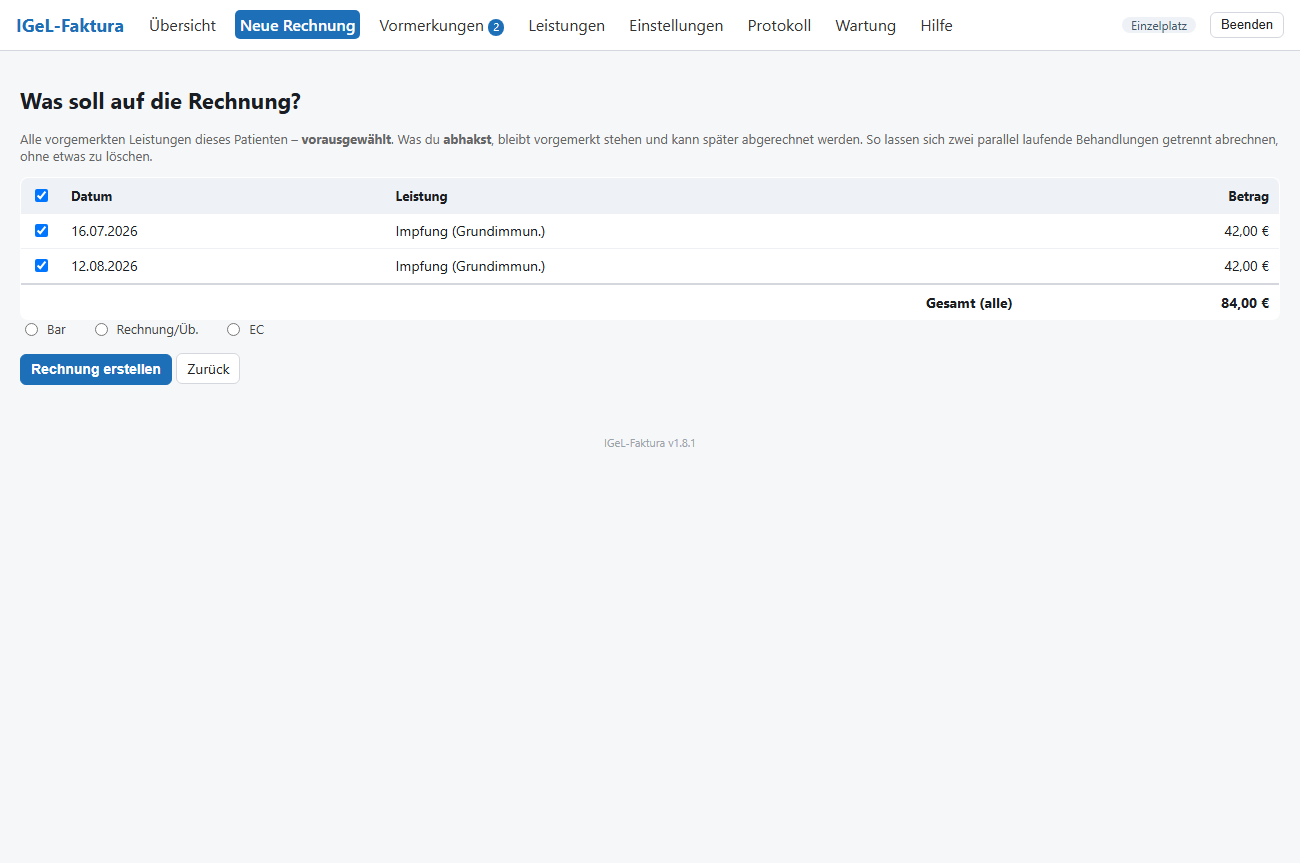
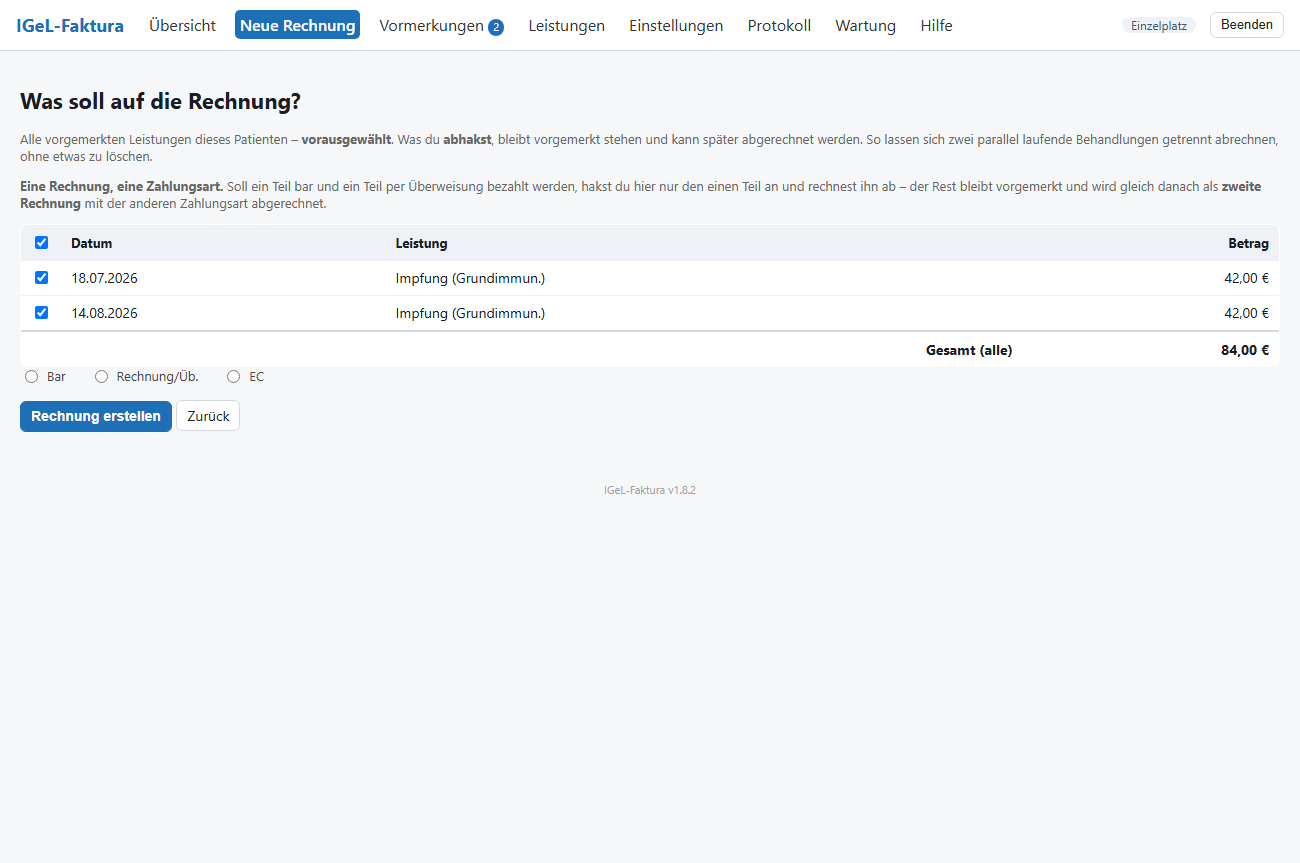
Release v1.8.2

diff --git a/README.md b/README.md
@@ -24,6 +24,10 @@ IGeL-Faktura erstellt Privat-/IGeL-Rechnungen aus den Patientendaten von **T2med
 
 ![Was soll auf die Rechnung?](docs/abrechnen.png)
 
+**Wen erinnern?** – vor dem Mahnlauf wird einzeln ausgewählt
+
+![Wen erinnern?](docs/mahnauswahl.png)
+
 <details>
 <summary><b>Weitere Ansichten</b> – Leistungsmenü, Einstellungen, GOÄ-Katalog, Konto-Abgleich, Mehrplatz</summary>
 
@@ -63,7 +67,7 @@ IGeL-Faktura erstellt Privat-/IGeL-Rechnungen aus den Patientendaten von **T2med
 - **Revisionssicher / GoBD** – gebuchte Rechnungen werden nicht geändert oder gelöscht (Storno statt Korrektur), fortlaufende eindeutige Nummern, lückenloses Protokoll. Ein **Storno** ist ausdruckbar (deutlich als ungültig gekennzeichnet) und wird als negativer **Karteieintrag an T2med** zurückgemeldet. War die stornierte Rechnung schon **bezahlt**, führt das Programm den Betrag als **offene Erstattung** an den Patienten, bis die Auszahlung gebucht ist – auch in der Karteikarte.
 - **Vormerken statt abrechnen** – für zwei Alltagsfälle: (1) **mehrterminige Behandlungen**, die am Ende *eine* Rechnung ergeben, und (2) die **Arbeitsteilung zwischen Behandlungszimmer und Anmeldung** – wer behandelt hat, hakt die Leistungen an; die Zahlungsart (Karte oder Überweisung) entscheidet sich erst vorn, wo die MFA die Vormerkung sieht und abrechnet. Sitzungen einer Impf- oder Plasma-/PRP-Serie werden am Behandlungstag mit einem Klick **vorgemerkt** (erfassen, aber noch nicht abrechnen; T2med erhält dabei den Vermerk *vorgemerkt* in die Akte). Beim Abrechnen wird auf einer eigenen Seite gewählt, **was auf die Rechnung soll** – nicht Gewähltes bleibt vorgemerkt, sodass **zwei parallel laufende Behandlungen getrennt** abgerechnet werden können. Ergebnis: **eine** Rechnung mit je Sitzung eigenem **Leistungsdatum**.
 - **Karteieinträge gehen nicht verloren** – Rückmeldungen an T2med (Rechnung, Storno, Zahlungserinnerung) warten in einer **Warteschlange**, bis T2med die vorige Datei eingelesen hat: keine wird überschrieben oder verworfen, auch wenn viele auf einmal entstehen. Wartende Einträge sind in der Kopfzeile sichtbar.
-- **Zahlungserinnerungen** für überfällige Rechnungen – werden wie Rechnungen gedruckt und als Karteieintrag an T2med zurückgemeldet.
+- **Zahlungserinnerungen** für überfällige Rechnungen – mit **Auswahl, wer erinnert wird** (vorausgewählt sind die noch nicht Gemahnten; ein Mahnlauf lässt sich nicht zurücknehmen). Sie werden wie Rechnungen gedruckt und als Karteieintrag an T2med zurückgemeldet.
 - **Leistungsmenü** mit Kategorien, Drag-&-Drop-Sortierung und CSV-Import.
 - **GOÄ-Katalog** – das amtliche Gebührenverzeichnis durchsuchen und Positionen mit einstellbarem Steigerungsfaktor als eigene Leistungen übernehmen.
 - **Konto-Abgleich** – Kontoumsatz-CSV einlesen (deutsche **oder englische** Spaltenüberschriften), Zahlungseingänge automatisch zuordnen und sammelweise als bezahlt buchen. Farb-Ampel (🟢 über die Rechnungsnummer erkannt / 🟠 nur vermutet); eine Sammelüberweisung kann mehrere Rechnungen auf einmal begleichen.

diff --git a/CHANGELOG.md b/CHANGELOG.md
@@ -1,3 +1,43 @@
+## v1.8.2 – 2026-08-17
+
+### Übersicht springt nicht mehr grundlos weg
+- **Ursache gefunden:** Der Zähler für „ein Patient wurde übergeben" war **prozessweit**, die
+  Patienten selbst aber **je Arbeitsplatz**. Am Server erhöhte damit jeder T2med-Aufruf an
+  *irgendeinem* Platz die Zahl – und alle **anderen** Arbeitsplätze sprangen aus ihrer Übersicht
+  in „Neue Rechnung", obwohl bei ihnen nichts passiert war. Das erklärt, warum es selten und
+  scheinbar grundlos auftrat: Es hing davon ab, was gerade ein Kollege tat. Der Zähler gehört
+  jetzt zur Sitzung.
+- Zusätzlich abgesichert: Fehlt die Zählnummer (z. B. Arbeitsplatz neuer als der Server), bleibt
+  die Übersicht **stehen**. Vorher war es umgekehrt – dann sprang sie alle 2,5 Sekunden erneut.
+
+### Zahlungserinnerungen: erst auswählen, dann mahnen
+- **„Überfällige mahnen …" führt jetzt auf eine Auswahlseite.** Bisher traf ein Klick *alle*
+  überfälligen Rechnungen – auch Testpatienten und Leute, die gestern schon eine Erinnerung
+  bekommen hatten. Ein Mahnlauf lässt sich aber nicht zurücknehmen: Der Brief ist gedruckt, der
+  Karteieintrag geschrieben.
+- Auf der Seite steht je Rechnung, seit wann sie fällig ist und wann zuletzt gemahnt wurde.
+  **Vorausgewählt sind die noch nicht gemahnten**; Schaltflächen für *nur noch nicht gemahnte* /
+  *alle* / *keine*. Eine zweite Erinnerung hakt man bewusst dazu.
+
+### Vormerken und Abrechnen
+- **Die Zahlungsart wird nicht mehr zu früh gefragt.** Liegen Vormerkungen vor, führt
+  „Abrechnen …" zur Auswahl – dort entsteht die Rechnung, dort wird die Zahlungsart gewählt.
+  Vorher verlangte schon der erste Schritt eine Angabe und vergaß sie danach wieder.
+  Hintergrund: Die Zahlungsart gehört der *Rechnung*, nicht der einzelnen Leistung – im
+  Behandlungszimmer steht sie noch gar nicht fest.
+- **Die Summe rechnet beim Ab- und Anwählen mit.** Vorher blieb der Gesamtbetrag aller
+  Vormerkungen stehen, auch wenn man Zeilen abgewählt hatte (abgerechnet wurde immer richtig).
+  Jetzt steht dort z. B. *Gesamt (2 von 3)* mit dem passenden Betrag.
+
+### Status auf einen Blick
+- **Grün heißt jetzt nur noch „erledigt".** *offen* war ebenfalls grün und sah damit aus wie
+  bezahlt; es ist neutral-blau, *fällig* und *gemahnt* bleiben warnend, *storniert* neutral-grau.
+- **Zustand und Eigenschaft getrennt:** Eine Rechnung ist offen/bezahlt/storniert – *fällig* und
+  *gemahnt* sind Eigenschaften einer offenen Rechnung und stehen jetzt **neben** dem Zustand
+  statt an seiner Stelle.
+- Der Statusfilter kennt zusätzlich *fällig*, *fällig & noch nicht gemahnt* und *gemahnt*,
+  eingerückt unter *offen* – sie sind Teilmengen davon.
+
 # Änderungshistorie
 
 Alle nennenswerten Änderungen an IGeL-Faktura. Versionierung nach [SemVer](https://semver.org/lang/de/).
